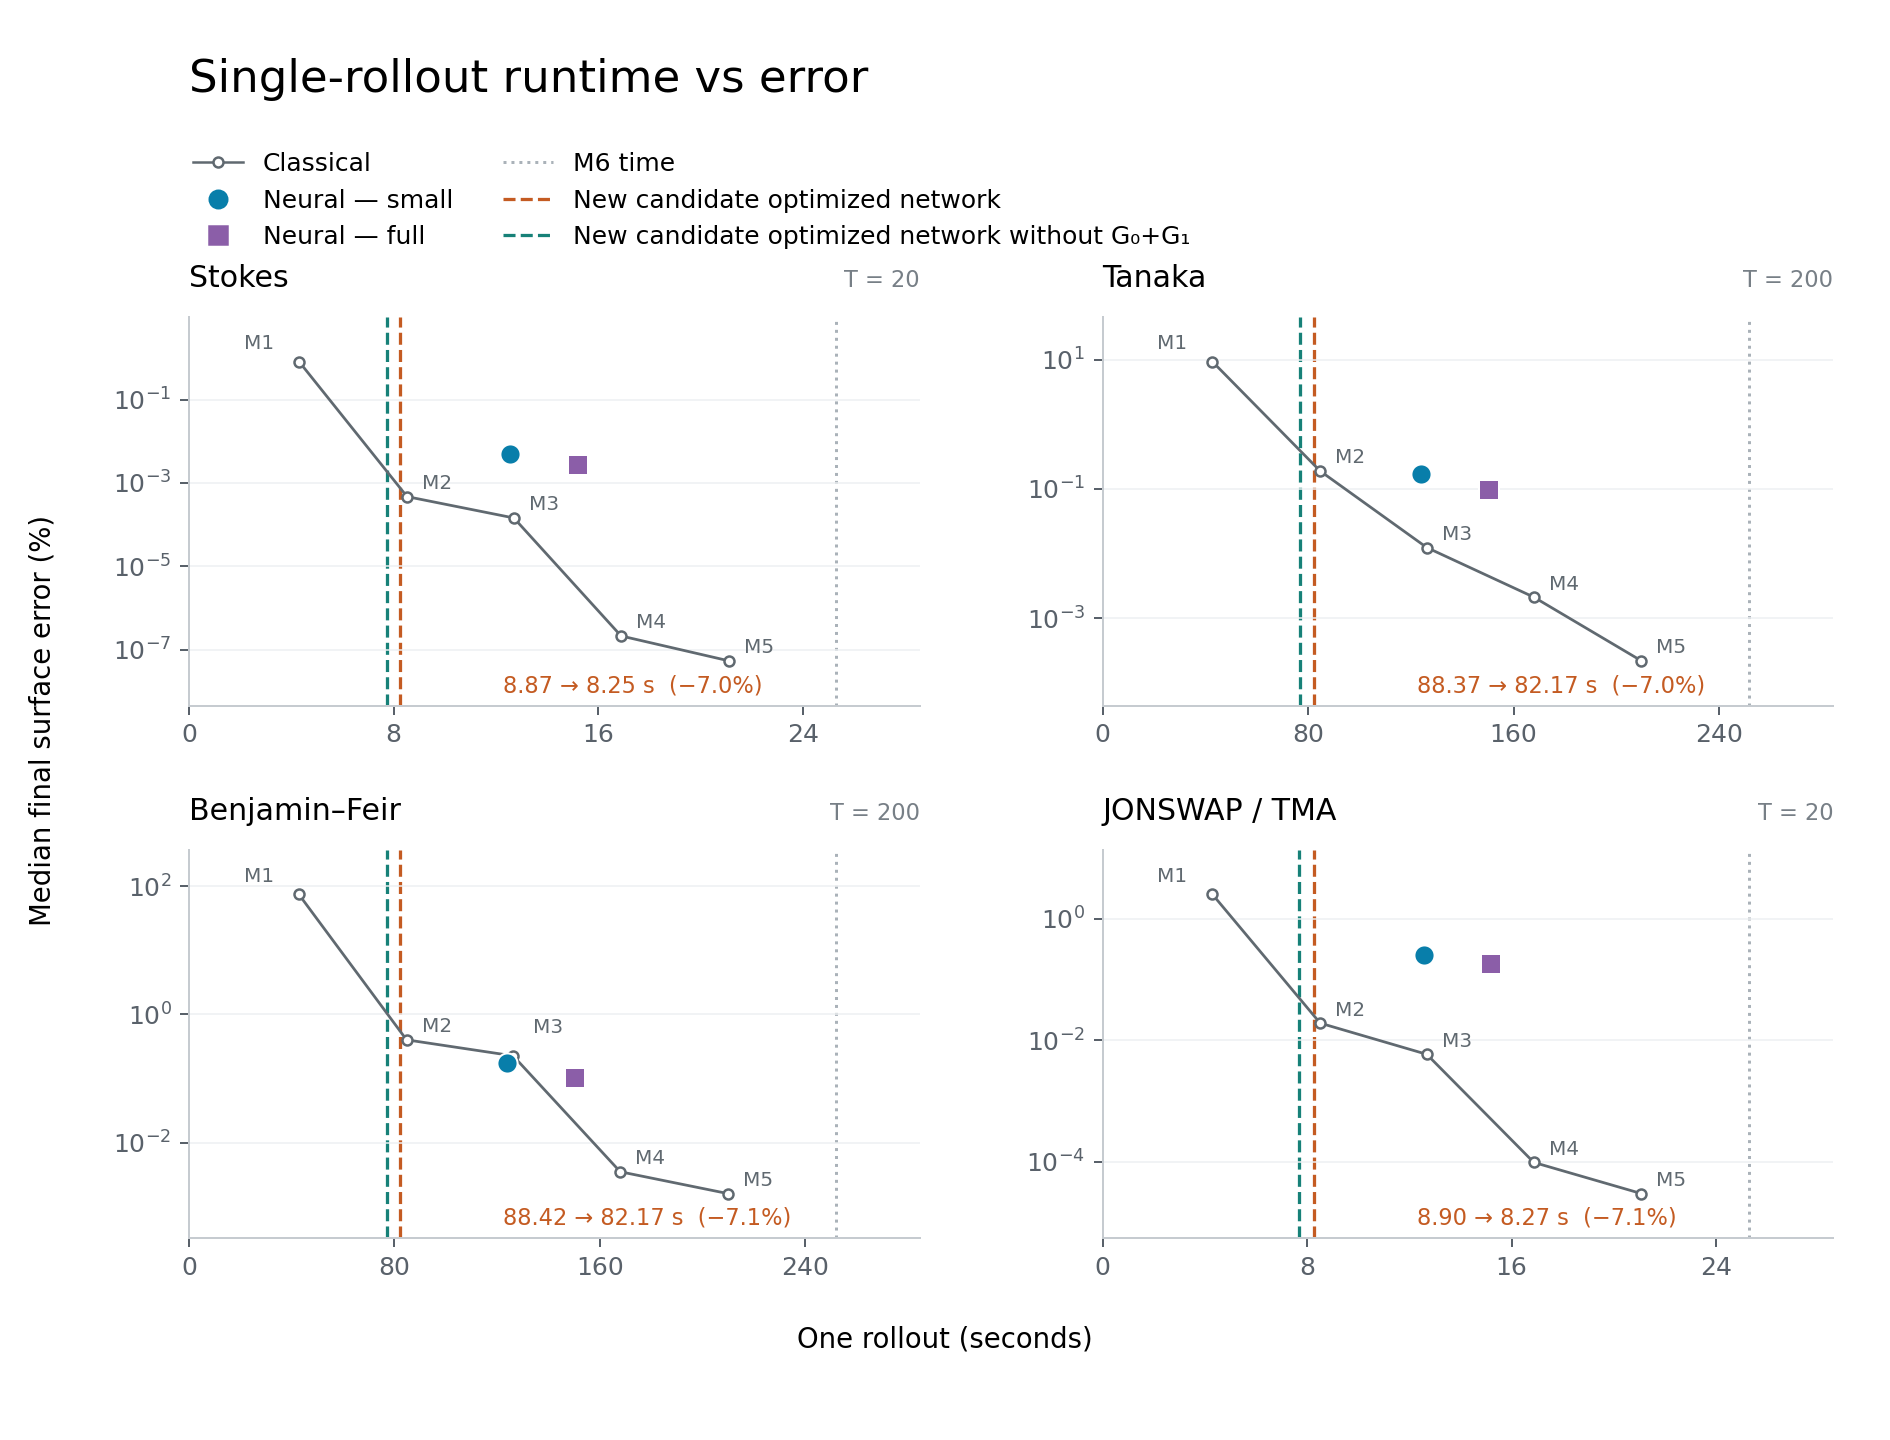
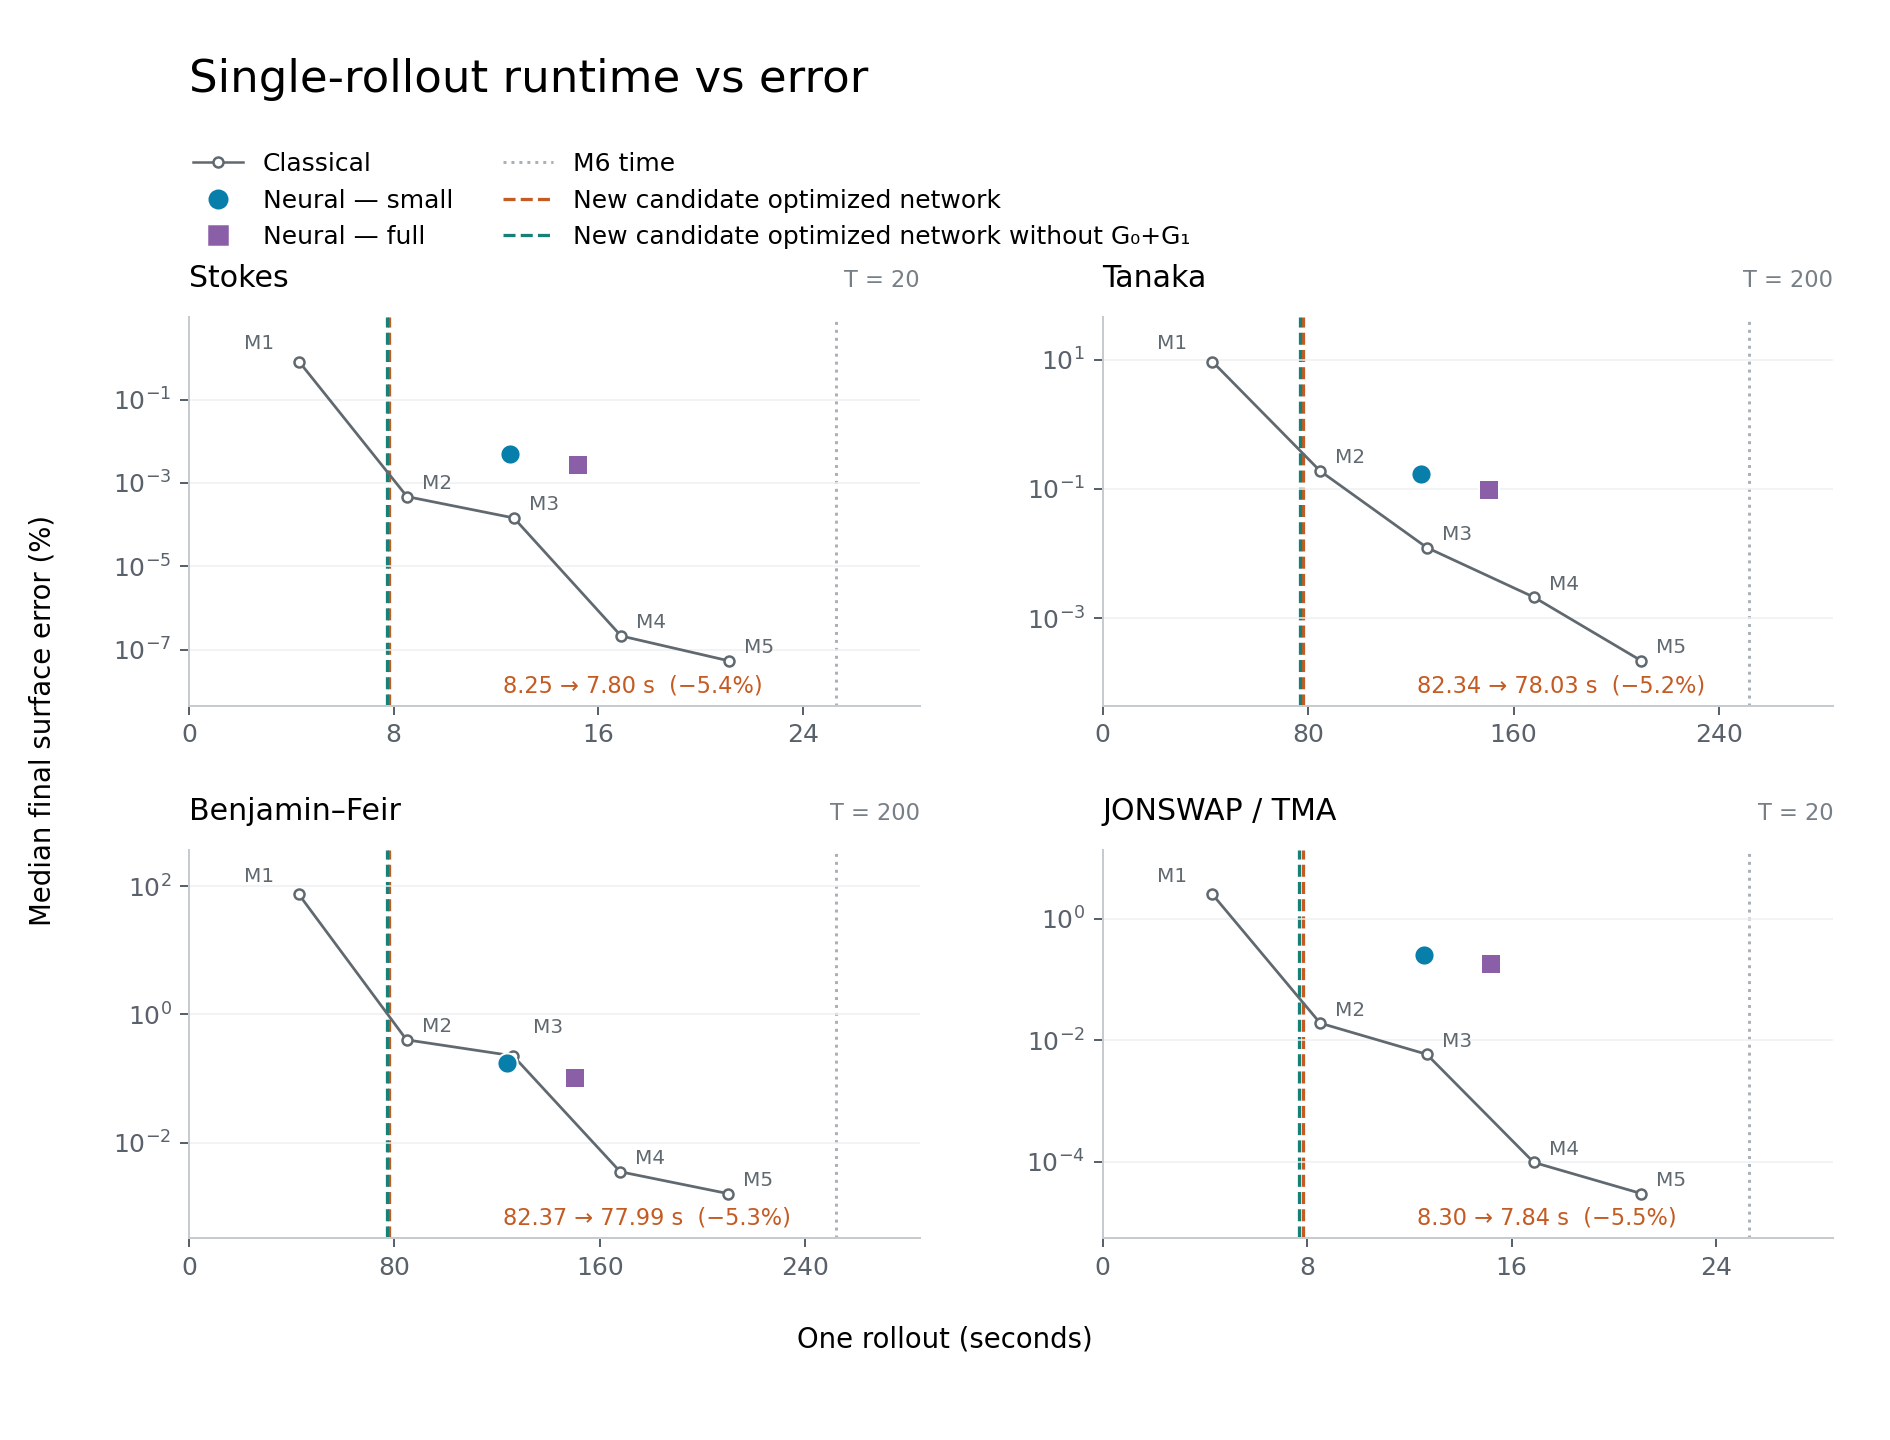
Validate cuFFTDx rollout savings and update Figure 12

diff --git a/scripts/time_single_rollouts.py b/scripts/time_single_rollouts.py
@@ -83,8 +83,7 @@ if __name__ == "__main__":
             initial = ti.State(jnp.asarray(saved["truth_eta"][0, :1]), jnp.asarray(saved["truth_xi"][0, :1]))
             depth = jnp.asarray(saved["depths"][:1])
             simulation_id = int(saved["simulation_ids"][0])
-            saved_reference = ({key: saved[f"truth_{key}"][:frames, :1] for key in ("eta", "xi", "gxi")}
-                               if "M6" in methods else {})
+            saved_reference = {key: saved[f"truth_{key}"][:frames, :1] for key in ("eta", "xi", "gxi")}
         records: dict[str, dict[str, Any]] = {}
         report["families"][family] = {
             "simulation_id": simulation_id, "steps": (frames - 1) * cfg.substeps,
@@ -145,10 +144,10 @@ if __name__ == "__main__":
                 records[method][f"terminal_{key}_error"] = float(error[-1] / scale[-1])
                 records[method][f"max_{key}_error"] = float((error / scale).max())
                 records[method][f"trajectory_{key}_error"] = float(np.linalg.norm(error) / np.linalg.norm(scale))
-                if method == "M6":
-                    cached = saved_reference[key].reshape(frames, -1)
-                    cached_error = np.linalg.norm(actual.reshape(frames, -1) - cached, axis=-1)
-                    records[method][f"cached_reference_max_{key}_error"] = float((cached_error / np.linalg.norm(cached, axis=-1)).max())
+                cached = saved_reference[key].reshape(frames, -1)
+                cached_error = np.linalg.norm(actual.reshape(frames, -1) - cached, axis=-1)
+                records[method][f"cached_reference_max_{key}_error"] = float((cached_error / np.linalg.norm(cached, axis=-1)).max())
+                records[method][f"cached_reference_terminal_{key}_error"] = float(cached_error[-1] / np.linalg.norm(cached[-1]))
         args.output.parent.mkdir(parents=True, exist_ok=True)
         args.output.write_text(json.dumps(report, indent=2) + "\n")
         print(f"{family}: saved {args.output}", flush=True)

diff --git a/scripts/benchmark_cufftdx.py b/scripts/benchmark_cufftdx.py
@@ -47,6 +47,7 @@ def fft(a: jax.Array, n: int, *, inverse: bool = False, b: jax.Array | None = No
 
 
 def sandwich(eta: jax.Array, xi: jax.Array, symbols: jax.Array) -> jax.Array:
+    """Evaluate L[eta L xi] on the fixed 1024-point model grid."""
     register()
     result = jax.ShapeDtypeStruct((*symbols.shape[:-1], xi.shape[-1]), xi.dtype)
     return jax.ffi.ffi_call("dno_cufftdx", result, vmap_method="broadcast_all")(

diff --git a/experiments/experiments-2026-09-25.md b/experiments/experiments-2026-09-25.md
@@ -2,3 +2,6 @@
 | --- | --- | --- | --- | --- | --- | --- | --- |
 | 2026-09-25 | 03:50 | cuFFTDx 1.6.1 native-precision FFT and fused G1 screen | FP64 G1 transforms/scaling were the largest remaining network cost. Device-side FFTs can fuse the physical products and normalization without lowering precision or changing learned weights. | Downloaded NVIDIA MathDx25.12.1 CUDA12 into ignored outputs; built SM89 kernels with local CUDA12.9 and JAX typed FFI. New benchmark-only CUDA/Python files implement ordinary transforms, fused product/rFFT, and L[eta Lxi]. GPU0 microbenchmark,300 alternating calls: combined-spectrum G1 reference104.46 us versus fused80.41 us. Direct8192-point FP64 padded-size transforms were slower: forward98.59→110.97 us, inverse107.30→113.63 us, product/forward102.09→113.33 us. Complete candidate network,600 alternating batch-one calls: prior front178.81 us versus cuFFTDx150.59 us,15.8% lower. Raw: `outputs/cufftdx_20260925/microbench.json` and `network/results.json`. | PASS: FP64 transform/G1 relative differences at most7.18e-16 on random inputs; FP32 at most2.06e-7. Both complete-network variants pass48 saved states across four families with max relative difference2.806e-8 from production. CUDA graph compatibility enabled; no allocations or stream synchronization in kernels. Scoped Ruff/Pyright pass. | 00:08 implementation/build/screen interval (03:40–03:48). | KEEP as an inference-only prototype for full-rollout evaluation. Do not substitute the slower8192-point FFTs into the classical solver. Production trainers/model, checkpoints, and global environment unchanged; Sam's GPU1 process untouched. |
 | 2026-09-25 | 03:50 | cuFFTDx full Stokes rollout | Standalone kernel savings need to survive the full integrator; long trajectories also expose amplification of FFT rounding differences. | Three alternating complete batch-one T20 rollouts per variant on GPU0 with the same checkpoint, FP64 analytic baseline, dt0.01 and four GL2 iterations. Median previous front8.25156 s versus fused cuFFTDx7.80379 s,5.43% lower. Raw: `outputs/cufftdx_20260925/rollout_stokes.json`. Remaining three full-family comparisons launched03:50. | PASS: finite states and positive depth. Maximum saved relative eta difference8.3323e-8, xi4.3528e-8, Gxi2.6655e-6 versus previous execution; terminal eta8.0835e-8. Outputs are not bitwise identical; precision and equations are unchanged. | 00:01 full Stokes run interval (03:48–03:49). | KEEP evaluating; update Figure12 after all full-family runs and classical checks complete. |
+| 2026-09-25 | 04:00 | cuFFTDx remaining full rollouts and Figure12 | The speed gain should persist across families and T200 integration, not only the short Stokes case. | Completed full batch-one comparisons: previous→cuFFTDx seconds JONSWAP8.29884→7.84470, Tanaka82.34465→78.02582, BF82.37172→77.99454, reductions5.47/5.24/5.31%. Raw: `outputs/cufftdx_20260925/rollout_remaining.json`. Figure12 PNG/PDF regenerated with these and the three-repeat Stokes result, unchanged accuracy points and faster existing classical runtimes. | All finite, positive depth (minimum0.05002642). Max saved relative eta differences8.58e-7/4.55e-5/8.77e-4 for JONSWAP/Tanaka/BF. BF xi and Gxi differences8.89e-4/9.69e-4. The same48-state forward check passes, but BF long-horizon differences motivate a direct M6 accuracy check; launched that repeat03:58. | 00:06 remaining-family sweep (03:50–03:56); plot rendered03:56. | KEEP speed results; do not describe long trajectories as bitwise identical or infer a new median accuracy coordinate. BF comparison against the saved classical reference pending. |
+| 2026-09-25 | 04:00 | cuFFTDx classical M1–M6 recurrence screen | The shared FFT-backend optimization must also be offered to the classical solver for a fair comparison; its padded transforms have different sizes and reuse patterns from neural G1. | Temporarily substituted cuFFTDx for all rFFT/irFFT calls while tracing the unchanged padded recurrence; no production solver edits. GPU0,300 alternating batch-one calls/order: JAX→cuFFTDx us M1 178.80→191.92, M2 377.74→424.72, M3 587.20→669.01, M4 800.26→915.15, M5 1012.22→1163.39, M6 1227.10→1411.41. Every order is slower,7.33–15.02%. Raw: `outputs/cufftdx_20260925/classical_screen.json`. | PASS: all orders agree with the existing recurrence to at most9.99e-17 relative; padding8 and FP64 unchanged. | 00:00 screening, completed03:57. | REJECT wholesale cuFFTDx replacement for the classical solver. Keep its already optimized cuFFT-based implementation and full-rollout Figure12 timings. |
+| 2026-09-25 | 04:07 | cuFFTDx BF accuracy repeat and final kernel checks | Long-horizon amplification must be distinguished from a kernel defect, and a speed gain must not be described as unchanged accuracy without checking the independent classical reference. Native CUDA code also needs memory-safety checks. | Added saved-M6 terminal/max errors to the existing rollout timer. Independent full BF repeat: front82.10210 s, cuFFTDx77.67032 s; terminal surface error against M6 0.927514%→0.974247%, increasing0.046733 percentage points. Raw: `outputs/cufftdx_20260925/rollout_bf_accuracy.json`. An extra8192-point fused-G1 diagnostic exceeded per-block launch resources; removed that unused instantiation and explicitly limited fused G1 to the1024-point model grid. Ordinary8192-point transforms remain available. Rebuilt/rechecked all classical orders (again8–15% slower); `classical_screen.json` contains this final repeat. | Final48-state cuFFTDx versus preceding packed predictor max relative difference6.58e-13. GPU memcheck passes with0 errors for FP64/FP32 model-size transforms, padded8192-point FP64 transforms, and supported fused G1; log `outputs/cufftdx_20260925/memcheck.log`. Random inverse/product/sandwich checks, scoped Ruff/Pyright and diff checks pass. Figure12 visually inspected. | 00:03 BF repeat (03:58–04:01); 00:05 resource-scope correction, rebuild and final checks (04:01–04:06). | KEEP as an optional inference benchmark, not a production replacement or retraining change. Figure12 reports measured5.2–5.5% full-rollout savings; README states the one-case accuracy tradeoff. Retain the faster classical backend. Both canceled trainers remain stopped and Sam's process is untouched. |

diff --git a/paper-plots/README.md b/paper-plots/README.md
@@ -171,17 +171,28 @@ Stokes and JONSWAP/TMA. These conclusions use one timing sample per method/famil
 
 [PNG](figures/12-potential-new-nn.png) / [PDF](figures/12-potential-new-nn.pdf).
 A separate copy of figure 11 adds the candidate model's measured runtimes as
-orange vertical lines. The latest update packs the input spectra and batches
-the surface features, G0 and learned branch inputs, retaining the earlier
-FP64 G1 batching. Orange annotations show previous → current runtime and
-the reduction.
+orange vertical lines. The latest update fuses each FP64 G1 multiplier/product
+chain using cuFFTDx, retaining the packed input spectra and batched surface
+features, G0 and learned branch inputs. Orange annotations show previous →
+current runtime and the reduction (5.2–5.5%).
 Stokes uses three repeats; the other families use one full trajectory per
 version. All timings use batch one and the complete T=20 or T=200 horizon,
-excluding compilation, setup, warm-up and host transfers. All saved eta, xi
-and Gxi arrays are bitwise identical to the previous optimized execution.
+excluding compilation, setup, warm-up and host transfers. All four trajectories
+remain finite with positive depth. Maximum saved relative surface differences
+from the preceding implementation are 8.33e-8 (Stokes), 8.58e-7 (JONSWAP/TMA),
+4.55e-5 (Tanaka), and 8.77e-4 (Benjamin–Feir); outputs are not bitwise identical.
+The same weights, precision and integrator are retained.
+An independent full Benjamin–Feir repeat against saved M6 data gives terminal
+surface errors 0.9275% before and 0.9742% with cuFFTDx
+(`outputs/cufftdx_20260925/rollout_bf_accuracy.json`). This is one case, not a
+new classwise median; the cuFFTDx path remains an optional inference prototype.
 
 The classical curve now uses a fresh full M1–M6 sweep with the corresponding
-FFT batching applied to its padded recurrence. The classical implementation
+FFT batching applied to its padded recurrence. The cuFFTDx backend was also
+screened on the complete M1–M6 recurrence: it was approximately 7–15% slower at the
+8192-point padded resolution, so the faster existing backend is retained.
+That screen is in `outputs/cufftdx_20260925/classical_screen.json`.
+The classical implementation
 already cached its depth symbol and combined spectral terms before the final
 inverse transform. Its precision, padding, truncation orders and integrator
 are unchanged. New timings are in
@@ -203,15 +214,31 @@ Without the model baselines, Stokes remained finite; JONSWAP/TMA, Tanaka and
 Benjamin–Feir produced non-finite saved states. The full requested step count
 was executed in every case. Figure12 uses the label "New candidate optimized
 network" and has no explanatory footnotes; numerical outcomes and
-timings are recorded in `notes/dno_profile_20260924.md` and the raw results.
+timings are recorded in `experiments/experiments-2026-09-25.md` and the raw results.
 This update does not regenerate figure 11, the manuscript or the ZIP. Reproduce with:
 
 ```sh
 UV_CACHE_DIR=/tmp/codex-uv-cache uv run --no-sync paper-plots/plot_neural_advantage.py \
   --timings outputs/single_rollout_timing_20260923.json \
   --classical-timings outputs/dno_fusion_20260924/baseline_joint/classical_rollouts.json \
-  --candidate-timings outputs/dno_fusion_20260924/network/front_rollout_stokes.json \
-    outputs/dno_fusion_20260924/network/front_rollout_remaining.json \
-  --candidate-method fused_front --candidate-previous-method fused_g1 \
+  --candidate-timings outputs/cufftdx_20260925/rollout_stokes.json \
+    outputs/cufftdx_20260925/rollout_remaining.json \
+  --candidate-method fused_cufftdx --candidate-previous-method fused_front \
   --no-baseline-timings outputs/dno_fusion_20260924/rollout_no_baselines.json
+```
+
+The cuFFTDx prototype is inference-only, outside both production trainers.
+It uses NVIDIA MathDx25.12.1 CUDA12 (cuFFTDx1.6.1), CUDA12.9 and SM89.
+To build locally, unpack the [NVIDIA archive](https://developer.nvidia.com/downloads/compute/cuFFTDx/redist/cuFFTDx/cuda12/nvidia-mathdx-25.12.1-cuda12.tar.gz)
+under `outputs/cufftdx_20260925/`, then run:
+
+```sh
+CUDA_VISIBLE_DEVICES=0 uv run --no-sync scripts/benchmark_cufftdx.py --build
+CUDA_VISIBLE_DEVICES=0 uv run --no-sync scripts/benchmark_cufftdx.py --classical
+CUDA_VISIBLE_DEVICES=0 uv run --no-sync scripts/benchmark_dno_fusion.py \
+  --variants original front cufftdx --output outputs/cufftdx_20260925/network
+CUDA_VISIBLE_DEVICES=0 uv run --no-sync scripts/time_single_rollouts.py \
+  --methods fused_front fused_cufftdx --reference fused_front \
+  --candidate-run outputs/c27_w320_b4_h80_tanaka_hard128_20260924 \
+  --output outputs/cufftdx_20260925/rollouts.json
 ```

diff --git a/EXPERIMENTS.md b/EXPERIMENTS.md
@@ -33,11 +33,11 @@ could not be recovered at all are in
 
 ## Dated logs
 
-77 files, 1065 rows.
+77 files, 1068 rows.
 
 | Date | Rows | File | Size |
 | --- | --- | --- | --- |
-| 2026-09-25 | 2 | [`experiments/experiments-2026-09-25.md`](experiments/experiments-2026-09-25.md) | 3 KB |
+| 2026-09-25 | 5 | [`experiments/experiments-2026-09-25.md`](experiments/experiments-2026-09-25.md) | 7 KB |
 | 2026-09-24 | 19 | [`experiments/experiments-2026-09-24.md`](experiments/experiments-2026-09-24.md) | 33 KB |
 | 2026-09-23 | 9 | [`experiments/experiments-2026-09-23.md`](experiments/experiments-2026-09-23.md) | 17 KB |
 | 2026-09-22 | 4 | [`experiments/experiments-2026-09-22.md`](experiments/experiments-2026-09-22.md) | 5 KB |
